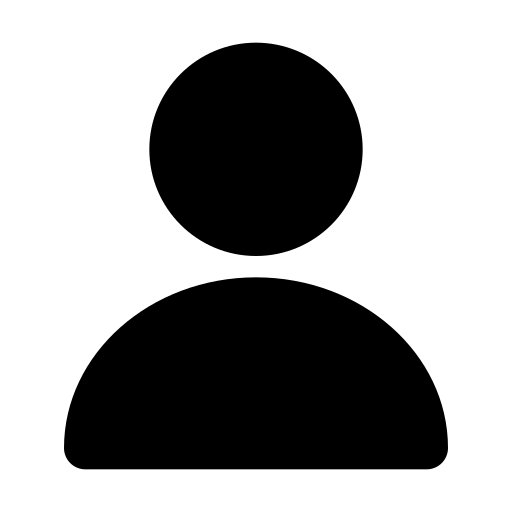
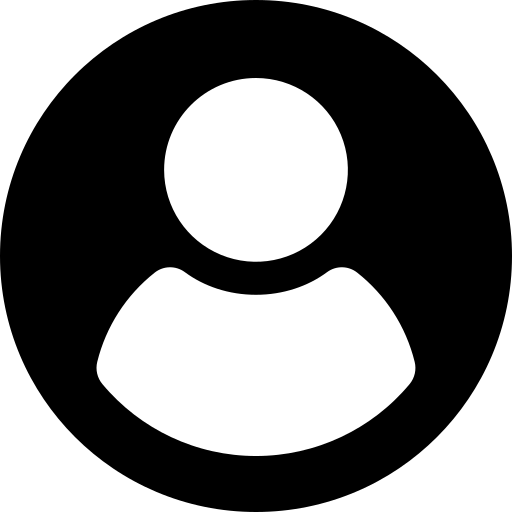
shit app

diff --git a/app/settings.tsx b/app/settings.tsx
@@ -115,7 +115,7 @@ export default function Settings() {
         <View style={[styles.content, { backgroundColor: theme.background }]}>
           <View style={[styles.profileImage, { backgroundColor: theme.background }]}>
             <Image
-            source={require('@/assets/images/shadow.png')}
+            source={require('@/assets/images/user.png')}
             style={[styles.Image, { borderColor: mainColor }]}
             />
             <View style={styles.profileInfo}>
@@ -456,8 +456,9 @@ const styles = StyleSheet.create({
     marginBottom: 30,
   },
   Image: {
-    width: 80,
-    height: 80,
+    width: 70,
+    height: 70,
+    backgroundColor: '#fff',
     marginBottom: 20,
     borderRadius: 50,
     marginTop: 30,
@@ -691,11 +692,13 @@ const styles = StyleSheet.create({
     borderRadius: 5,
     marginHorizontal: 10
   },
-  About:{
-    justifyContent: 'center',
-    alignItems: 'center',
-    padding: 10,
-    borderRadius: 5,
-    marginHorizontal: 10,
-  }
+  About: {
+  justifyContent: 'center',
+  alignItems: 'center',
+  paddingVertical: 12,       // مسافة عمودية مريحة
+  paddingHorizontal: 24,     // مسافة أفقية تعطي الزر عرض مناسب
+  borderRadius: 12,          // حواف دائرية ناعمة وعصرية (بدل 5 القاسية)
+  marginHorizontal: 20,      // هوامش أفقية أوسع عشان ما يمتد لأطراف الشاشة
+  borderWidth: 1.5,          // خط الحدود
+}
 });

diff --git a/tailwind.config.js b/tailwind.config.js
@@ -1,0 +1,10 @@
+/** @type {import('tailwindcss').Config} */
+module.exports = {
+  // NOTE: Update this to include the paths to all files that contain Nativewind classes.
+  content: ["./app/**/*.{js,jsx,ts,tsx}", "./components/**/*.{js,jsx,ts,tsx}"],
+  presets: [require("nativewind/preset")],
+  theme: {
+    extend: {},
+  },
+  plugins: [],
+}

diff --git a/babel.config.js b/babel.config.js
@@ -1,0 +1,9 @@
+module.exports = function (api) {
+  api.cache(true);
+  return {
+    presets: [
+      ["babel-preset-expo", { jsxImportSource: "nativewind" }],
+      "nativewind/babel",
+    ],
+  };
+};

diff --git a/metro.config.js b/metro.config.js
@@ -1,0 +1,6 @@
+const { getDefaultConfig } = require("expo/metro-config");
+const { withNativeWind } = require('nativewind/metro');
+ 
+const config = getDefaultConfig(__dirname)
+ 
+module.exports = withNativeWind(config, { input: './app/global.css' })

diff --git a/app/global.css b/app/global.css
@@ -1,0 +1,3 @@
+@tailwind base;
+@tailwind components;
+@tailwind utilities;

diff --git a/Constants/Colors.tsx b/Constants/Colors.tsx
@@ -1,7 +1,7 @@
 
 export const Colors = {
     light: {
-        background: '#F9FAFB',
+        background: '#F3F4F6',
         card: '#f9f9f9',
         primary: '#111827',
         secondary: '#6B7280',

diff --git a/nativewind-env.d.ts b/nativewind-env.d.ts
@@ -1,0 +1,1 @@
+/// <reference types="nativewind/types" />